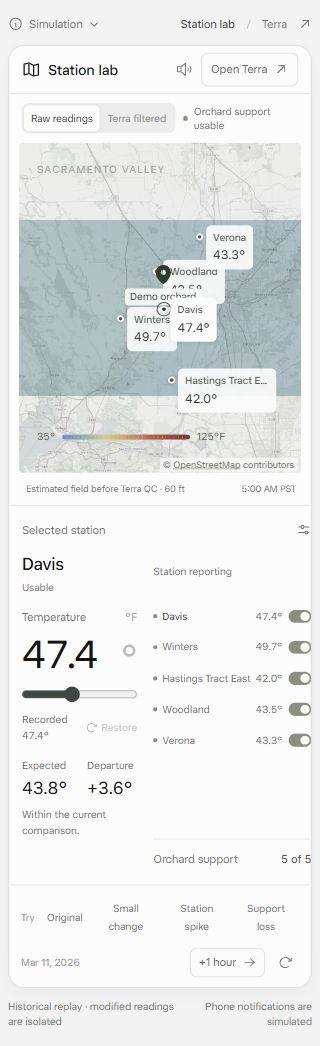
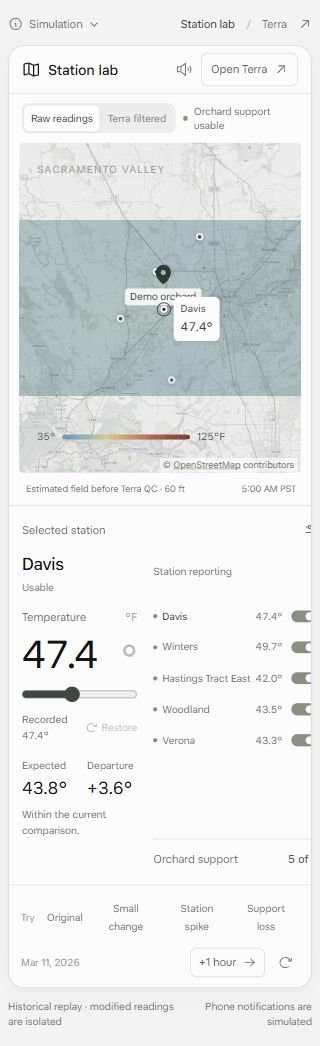
Verify demo against current monitor and refine responsive controls

diff --git a/web/demo/src/App.jsx b/web/demo/src/App.jsx
@@ -98,6 +98,9 @@ function useDemo() {
   }, [accept]);
   const act = useCallback((action, endpoint = '/api/demo/action') => {
     unlockAudio();
+    if (endpoint === '/api/demo/action' && action.type !== 'temperature') {
+      window.dispatchEvent(new Event('terra-demo-command'));
+    }
     const execute = async () => {
       if (alive.current) setBusy(true);
       const id = ++seq.current;
@@ -381,17 +384,30 @@ function StationControl({
   layer
 }) {
   const s = state.stations.find(s => s.id === selected) || state.stations[0],
-    [draft, setDraft] = useState(s.value_f ?? 50),
-    timer = useRef(null);
+    [draft, setDraft] = useState(String(s.value_f ?? 50)),
+    timer = useRef(null),
+    latestStation = useRef(s);
+  latestStation.current = s;
+  const pending = s.online && String(draft).trim() !== '' && Number(draft) !== s.value_f;
   useEffect(() => {
-    setDraft(s.value_f ?? s.original_f ?? 50);
-  }, [s.id, s.value_f, s.original_f]);
-  useEffect(() => () => clearTimeout(timer.current), []);
+    setDraft(String(s.value_f ?? s.original_f ?? 50));
+  }, [s.id, s.value_f, s.original_f, state.run_id]);
+  useEffect(() => {
+    const cancel = () => {
+      clearTimeout(timer.current);
+      setDraft(String(latestStation.current.value_f ?? latestStation.current.original_f ?? 50));
+    };
+    window.addEventListener('terra-demo-command', cancel);
+    return () => {
+      cancel();
+      window.removeEventListener('terra-demo-command', cancel);
+    };
+  }, []);
   function change(v) {
     const n = Number(v);
-    setDraft(n);
+    setDraft(v);
     clearTimeout(timer.current);
-    if (Number.isFinite(n) && n >= -10 && n <= 125) {
+    if (String(v).trim() && Number.isFinite(n) && n >= -10 && n <= 125) {
       const id = s.id;
       timer.current = setTimeout(() => act({
         type: 'temperature',
@@ -400,15 +416,14 @@ function StationControl({
       }), 350);
     }
   }
-  return <aside className="station-controls"><div className="control-heading"><span>Selected station</span><SlidersHorizontal size={15} /></div><div className="selected-station-heading"><h2>{s.name}</h2><StationLabel station={s} /></div><div className="temperature-control"><label htmlFor="temperature-value">Temperature <span>°F</span></label><div className="temperature-value"><input id="temperature-value" aria-label={`${s.name} temperature Fahrenheit`} type="number" min="-10" max="125" step="0.1" value={number(draft)} disabled={!s.online} onChange={e => change(e.target.value)} /><span>°</span></div><input className="temperature-slider" aria-label={`Adjust ${s.name} temperature`} type="range" min="-10" max="125" step="0.1" value={draft} disabled={!s.online} onChange={e => change(e.target.value)} /><div className="slider-context"><span>Recorded {degrees(s.original_f)}</span><button disabled={s.override === null || s.override === undefined || busy} onClick={() => {
+  return <aside className="station-controls"><div className="control-heading"><span>Selected station</span><SlidersHorizontal size={15} /></div><div className="selected-station-heading"><h2>{s.name}</h2>{pending ? <span className="station-state">Checking…</span> : <StationLabel station={s} />}</div><div className="temperature-control"><label htmlFor="temperature-value">Temperature <span>°F</span></label><div className="temperature-value"><input id="temperature-value" aria-label={`${s.name} temperature Fahrenheit`} type="number" min="-10" max="125" step="0.1" value={draft} disabled={!s.online || busy} onBlur={() => { if (!String(draft).trim()) setDraft(String(s.value_f ?? s.original_f)); }} onChange={e => change(e.target.value)} /><span>°</span></div><input className="temperature-slider" aria-label={`Adjust ${s.name} temperature`} type="range" min="-10" max="125" step="0.1" value={draft} disabled={!s.online || busy} onChange={e => change(e.target.value)} /><div className="slider-context"><span>Recorded {degrees(s.original_f)}</span><button disabled={s.override === null || s.override === undefined || busy} onClick={() => {
           clearTimeout(timer.current);
           act({
             type: 'temperature',
             station_id: s.id,
             value_f: s.original_f
           });
-        }}><ArrowClockwise size={12} />Restore</button></div></div><div className="station-comparison"><div><span>Expected</span><strong>{degrees(s.assessment.expected_f)}</strong></div><div><span>Departure</span><strong>{signed(s.assessment.residual_f)}</strong></div></div><div className="reading-state" aria-live="polite">{!s.online ? 'Reading withheld from the simulation.' : flagged(s) ? layer === 'filtered' ? 'Flagged · excluded from temperature field.' : 'Terra flagged this departure.' : !s.assessment.available ? 'Comparison unavailable.' : s.assessment.level === 'moderate' ? `Departure · awaiting ${s.assessment.required_readings} consecutive readings` : 'Within the current comparison.'}</div><div className="station-list-heading">Station reporting</div><div className="station-list">{state.stations.map(row => <div className={`station-row${row.id === selected ? ' active' : ''}`} key={row.id}><button className="station-select" onClick={() => {
-          clearTimeout(timer.current);
+        }}><ArrowClockwise size={12} />Restore</button></div></div><div className="station-comparison"><div><span>Expected</span><strong>{pending ? '—' : degrees(s.assessment.expected_f)}</strong></div><div><span>Departure</span><strong>{pending ? '—' : signed(s.assessment.residual_f)}</strong></div></div><div className="reading-state" aria-live="polite">{!s.online ? 'Reading withheld from the simulation.' : pending ? 'Evaluating this reading…' : flagged(s) ? layer === 'filtered' ? 'Flagged · excluded from temperature field.' : 'Terra flagged this departure.' : !s.assessment.available ? 'Comparison unavailable.' : s.assessment.level === 'moderate' ? `Departure · awaiting ${s.assessment.required_readings} consecutive readings` : 'Within the current comparison.'}</div><div className="station-list-heading">Station reporting</div><div className="station-list">{state.stations.map(row => <div className={`station-row${row.id === selected ? ' active' : ''}`} key={row.id}><button className="station-select" onClick={() => {
           setSelected(row.id);
         }}><span className={`row-dot${!row.online ? ' off' : flagged(row) ? ' warn' : ''}`} /><span>{row.name}</span><span>{row.online ? degrees(row.value_f) : '—'}</span></button><button className="reporting-toggle" aria-label={`${row.online ? 'Take' : 'Bring'} ${row.name} ${row.online ? 'offline' : 'online'}`} aria-pressed={row.online} disabled={busy} onClick={() => {
           clearTimeout(timer.current);
@@ -430,8 +445,9 @@ function StationApp({
     [selected, setSelected] = useState(6),
     [layer, setLayer] = useState('raw'),
     phone = usePhone(state, 'stations'),
-    available = supported(state.assessment);
-  return <><PageNav view="stations" state={state} /><main className="lab-window"><header className="lab-header"><div><MapTrifold size={19} /><h1>Station lab</h1><span className="header-separator" /><span>Sacramento Valley</span></div><div className="lab-header-actions"><button className="icon-button" onClick={phone.toggleSound} aria-label={phone.sound ? 'Mute demo ping' : 'Enable demo ping'} title={phone.sound ? 'Demo ping on' : 'Demo ping muted'}>{phone.sound ? <SpeakerHigh size={16} /> : <SpeakerSlash size={16} />}</button><a className="quiet-button" href="/terra" target="_blank" rel="noreferrer">Open Terra <ArrowUpRight size={14} /></a></div></header><div className="lab-toolbar"><div className="segmented" aria-label="Heatmap layer"><button aria-pressed={layer === 'raw'} onClick={() => setLayer('raw')}>Raw readings</button><button aria-pressed={layer === 'filtered'} onClick={() => setLayer('filtered')}>Terra filtered</button></div><span className="evaluation-state" role="status">{busy ? <><CircleNotch className="spin" size={12} />Evaluating…</> : <><span className={`status-dot${available ? '' : ' limited'}`} />{available ? 'Orchard support usable' : 'Orchard support limited'}</>}</span></div><div className="lab-body"><div className="map-column"><WeatherMap state={state} selected={selected} onSelect={setSelected} layer={layer} /><div className="map-bottom"><span>{layer === 'raw' ? 'Estimated field before Terra QC' : 'Estimated field after Terra QC'}<span className="muted"> · 60 ft</span></span><span>{clock(state.clock.current_utc)} PST</span></div></div><StationControl state={state} selected={selected} setSelected={setSelected} act={act} busy={busy} layer={layer} /></div><footer className="lab-footer"><div className="scenario-controls"><span>Try</span>{[['normal', 'Original'], ['minor', 'Small change'], ['spike', 'Station spike'], ['support_loss', 'Support loss']].map(([name, label]) => <button key={name} disabled={busy} onClick={() => act({
+    available = supported(state.assessment),
+    health = state.monitor.demo_health;
+  return <><PageNav view="stations" state={state} /><main className="lab-window"><header className="lab-header"><div><MapTrifold size={19} /><h1>Station lab</h1><span className="header-separator" /><span>Sacramento Valley</span></div><div className="lab-header-actions"><button className="icon-button" onClick={phone.toggleSound} aria-label={phone.sound ? 'Mute demo ping' : 'Enable demo ping'} title={phone.sound ? 'Demo ping on' : 'Demo ping muted'}>{phone.sound ? <SpeakerHigh size={16} /> : <SpeakerSlash size={16} />}</button><a className="quiet-button" href="/terra" target="_blank" rel="noreferrer">Open Terra <ArrowUpRight size={14} /></a></div></header><div className="lab-toolbar"><div className="segmented" aria-label="Heatmap layer"><button aria-pressed={layer === 'raw'} onClick={() => setLayer('raw')}>Raw readings</button><button aria-pressed={layer === 'filtered'} onClick={() => setLayer('filtered')}>Terra filtered</button></div><span className="evaluation-state" role="status">{busy ? <><CircleNotch className="spin" size={12} />Evaluating…</> : <><span className={`status-dot${available ? '' : ' limited'}`} />{available ? health.incident_active ? `Recovery · ${health.consecutive_good_readings}/3 hours` : 'Orchard support usable' : 'Orchard support limited'}</>}</span></div><div className="lab-body"><div className="map-column"><WeatherMap state={state} selected={selected} onSelect={setSelected} layer={layer} /><div className="map-bottom"><span>{layer === 'raw' ? 'Estimated field before Terra QC' : 'Estimated field after Terra QC'}<span className="muted"> · 60 ft</span></span><span>{clock(state.clock.current_utc)} PST</span></div></div><StationControl state={state} selected={selected} setSelected={setSelected} act={act} busy={busy} layer={layer} /></div><footer className="lab-footer"><div className="scenario-controls"><span>Try</span>{[['normal', 'Original'], ['minor', 'Small change'], ['spike', 'Station spike'], [health.incident_active ? 'recover' : 'support_loss', health.incident_active ? 'Restore +3h' : 'Support loss']].map(([name, label]) => <button key={name} disabled={busy || name === 'recover' && state.controls.remaining_hours < 3} onClick={() => act({
             type: 'preset',
             name
           })}>{label}</button>)}</div><div className="time-controls"><span>{clock(state.clock.current_utc, true)}</span><button className="quiet-button" disabled={busy || state.controls.remaining_hours < 1} onClick={() => act({
@@ -439,10 +455,7 @@ function StationApp({
             hours: 1
           })}>+1 hour <ArrowRight size={13} /></button><button className="icon-button" disabled={busy} title="Reset entire demo" aria-label="Reset entire demo" onClick={() => act({
             type: 'reset'
-          })}><ArrowClockwise size={15} /></button></div></footer>{(!available || state.monitor?.demo_health?.incident_active) && <div className="recovery-strip"><span>{available ? `Recovery · ${state.monitor.demo_health?.consecutive_good_readings || 0} of 3 hourly readings` : 'Terra recorded a support interruption.'}</span><button disabled={busy || state.controls.remaining_hours < 3} onClick={() => act({
-          type: 'preset',
-          name: 'recover'
-        })}>Restore support + 3 hours <ArrowRight size={13} /></button></div>}</main><div className="below-app"><span>Historical replay · modified readings are isolated</span><span>Phone notifications are simulated</span></div>{phone.notice && <Notification notification={phone.notice} onClose={() => phone.setNotice(null)} />}</>;
+          })}><ArrowClockwise size={15} /></button></div></footer></main><div className="below-app"><span>Historical replay · modified readings are isolated</span><span>Phone notifications are simulated</span></div>{phone.notice && <Notification notification={phone.notice} onClose={() => phone.setNotice(null)} />}</>;
 }
 function useNoteDetails(id, runId) {
   const [details, setDetails] = useState(null),
@@ -654,7 +667,7 @@ function TerraApp({
             }}><SidebarSimple size={17} /></button></div></header><div className="thread-scroll" ref={scroll} onScroll={event => {
           const el = event.currentTarget;
           nearBottom.current = el.scrollHeight - el.scrollTop - el.clientHeight < 60;
-        }}><div className="thread-date">{clock(state.clock.current_utc, true)}</div><div className="thread-context">Demo orchard · historical replay</div>{!available && <div className="quiet-availability"><span className="status-dot limited" />Weather support limited</div>}{state.messages.some(m => !m.event_types?.includes('welcome')) ? <div className="grower-notes" role="log" aria-label="Grower alerts" aria-live="polite" aria-relevant="additions text">{state.messages.filter(m => !m.event_types?.includes('welcome')).map(m => <article key={m.id} className="grower-note"><time dateTime={m.created_at}>{clock(m.created_at)} PST</time>{(sent[m.id] || m.llm_input?.question?.text) && <div className="outgoing-bubble">{sent[m.id] || m.llm_input?.question?.text}</div>}<button className={`incoming-bubble${selectedNote === m.id ? ' selected-note' : ''}`} onClick={e => openNote(m, e)} aria-label={`Open grower note: ${m.text}`}>{m.text}</button><button className="note-attachment" onClick={e => openNote(m, e)}><MapTrifold size={20} /><span><strong>{m.event_types?.includes('monitoring_recovered') ? 'Weather support restored' : m.event_types?.includes('monitoring_limited') ? 'Weather support' : 'Field note'}</strong><small>{m.kind === 'answer' ? 'Supporting facts' : 'View station evidence'}</small></span><ArrowUpRight size={13} /></button><span className="note-delivery">{m.kind === 'answer' ? 'Reply in Terra' : m.event_types?.includes('welcome') ? 'Monitoring started' : 'Demo phone · simulated'}</span></article>)}</div> : <div className="quiet-state"><span className="quiet-orbit"><Check size={19} /></span><h2>All quiet.</h2><p>Weather support is usable.</p><a href="/stations" target="_blank" rel="noreferrer">Open station lab <ArrowUpRight size={12} /></a></div>}</div><div className="chat-bottom"><form className="composer" onSubmit={ask}><span className="composer-icon"><Plus size={14} /></span><input aria-label="Ask Terra about this orchard" value={question} onChange={e => setQuestion(e.target.value)} placeholder="Ask about your orchard…" disabled={asking} maxLength={500} /><button type="submit" disabled={!question.trim() || asking} aria-label="Send question">{asking ? <CircleNotch size={15} className="spin" /> : <ArrowUp size={16} />}</button></form><span className="chat-footnote">Simulation · no texts sent</span></div>{phoneOpen && <div className="phone-popover"><div className="popover-title"><strong>Simulated phone</strong><button className="icon-button" onClick={() => setPhoneOpen(false)} aria-label="Close simulated phone"><X size={14} /></button></div>{latest ? <><span className="phone-meta">terra · {clock(latest.created_at)} PST</span><p>{latest.text}</p><button className="text-button" onClick={() => {
+        }}><div className="thread-date">{clock(state.clock.current_utc, true)}</div><div className="thread-context">Demo orchard · historical replay</div>{!available && <div className="quiet-availability"><span className="status-dot limited" />Weather support limited</div>}{state.messages.some(m => !m.event_types?.includes('welcome')) ? <div className="grower-notes" role="log" aria-label="Grower alerts" aria-live="polite" aria-relevant="additions text">{state.messages.filter(m => !m.event_types?.includes('welcome')).map(m => <article key={m.id} className="grower-note"><time dateTime={m.created_at}>{clock(m.created_at)} PST</time>{(sent[m.id] || m.llm_input?.question?.text) && <div className="outgoing-bubble">{sent[m.id] || m.llm_input?.question?.text}</div>}<button className={`incoming-bubble${selectedNote === m.id ? ' selected-note' : ''}`} onClick={e => openNote(m, e)} aria-label={`Open grower note: ${m.text}`}>{m.text}</button><button className="note-attachment" onClick={e => openNote(m, e)}><MapTrifold size={20} /><span><strong>{m.event_types?.includes('monitoring_recovered') ? 'Weather support restored' : m.event_types?.includes('monitoring_limited') ? 'Weather support' : 'Field note'}</strong><small>{m.kind === 'answer' ? 'Supporting facts' : 'View station evidence'}</small></span><ArrowUpRight size={13} /></button><span className="note-delivery">{m.kind === 'answer' ? 'Reply in Terra' : m.event_types?.includes('welcome') ? 'Monitoring started' : 'Demo phone · simulated'}</span></article>)}</div> : <div className="quiet-state"><span className="quiet-orbit"><Check size={19} /></span><h2>All quiet.</h2><p>Weather support is usable.</p><a href="/stations" target="_blank" rel="noreferrer">Open station lab <ArrowUpRight size={12} /></a></div>}</div><div className="chat-bottom"><form className="composer" onSubmit={ask}><span className="composer-icon"><Plus size={14} /></span><input aria-label="Ask Terra about this orchard" value={question} onChange={e => setQuestion(e.target.value)} placeholder="Ask about your orchard…" disabled={asking} maxLength={500} /><button type="submit" disabled={!question.trim() || asking} aria-label="Send question">{asking ? <CircleNotch size={15} className="spin" /> : <ArrowUp size={16} />}</button></form></div>{phoneOpen && <div className="phone-popover"><div className="popover-title"><strong>Simulated phone</strong><button className="icon-button" onClick={() => setPhoneOpen(false)} aria-label="Close simulated phone"><X size={14} /></button></div>{latest ? <><span className="phone-meta">terra · {clock(latest.created_at)} PST</span><p>{latest.text}</p><button className="text-button" onClick={() => {
               setSelectedNote(latest.id);
               setPanel(true);
               setPhoneOpen(false);

diff --git a/web/demo/src/styles.css b/web/demo/src/styles.css
@@ -21,4 +21,5 @@
 .composer input::placeholder{color:#737373}.note-delivery,.chat-footnote{font-size:10px}.source-details summary,.app-links>a,.below-app{color:#737373}.evidence-tabs button{color:#737373}.evidence-tabs button[aria-selected=true]{color:#444}
 @media(max-width:739px){.map-station:not(.selected) .map-station-caption{display:none}.map-station{padding:16px}.map-station.selected .map-station-caption{left:29px;top:7px}.map-station.selected.caption-left .map-station-caption{left:auto;right:29px}.map-station.selected.caption-up .map-station-caption{top:auto;bottom:10px}.reporting-toggle,.reporting-toggle[aria-pressed=true]{width:30px;height:24px;background:transparent}.reporting-toggle:before{content:'';position:absolute;left:3px;right:3px;top:6px;height:12px;border-radius:10px;background:#dedede}.reporting-toggle[aria-pressed=true]:before{background:#86917f}.reporting-toggle>span{left:5px;top:8px;width:8px;height:8px}.reporting-toggle[aria-pressed=true]>span{transform:translateX(12px)}}
 @media(min-width:740px){.control-heading{margin-bottom:8px}.selected-station-heading{min-height:40px}.temperature-control{margin-top:8px}.temperature-value{margin-bottom:5px}.temperature-value input{font-size:34px;line-height:42px}.station-comparison{margin-top:12px}.station-list-heading{margin-top:12px}.station-row{min-height:27px}.control-footnote{display:none}.station-controls{padding-bottom:10px}.support-summary{margin-top:7px;padding-top:8px}}
+@media(max-width:390px){.station-controls{grid-template-columns:minmax(0,1fr);gap:0}.station-controls>*{grid-column:1;grid-row:auto;min-width:0}.station-controls .station-list-heading{margin-top:20px;margin-bottom:6px}.station-controls .station-list{grid-row:auto}.station-controls .station-row{min-height:32px}.station-controls .station-select{font-size:11px}.station-controls .support-summary{grid-row:auto;margin-top:12px}.station-controls .station-comparison{margin-top:14px}.station-controls .selected-station-heading{margin-top:0}}
 @media(prefers-reduced-motion:reduce){*,*:before,*:after{animation-duration:.01ms!important;transition-duration:.01ms!important;scroll-behavior:auto!important}}

diff --git a/tests/test_terra_demo_simulation.py b/tests/test_terra_demo_simulation.py
@@ -71,16 +71,21 @@ class DemoSimulationTests(unittest.TestCase):
         for _ in range(3):
             same_hour = self.demo.action({"type": "preset", "name": "normal"})
         self.assertFalse(any(e["type"] == "monitoring_recovered" for e in same_hour["events"]))
-        self.assertEqual(same_hour["monitor"]["demo_health"]["consecutive_good_readings"], 1)
+        # The current monitor excludes the last unavailable hour even after a
+        # same-hour revision. Only subsequent distinct hours prove recovery.
+        self.assertEqual(same_hour["monitor"]["demo_health"]["consecutive_good_readings"], 0)
         self.assertTrue(same_hour["monitor"]["demo_health"]["incident_active"])
         next_hour = self.demo.action({"type": "advance", "hours": 1})
         self.assertFalse(any(e["type"] == "monitoring_recovered" for e in next_hour["events"]))
-        self.assertEqual(next_hour["monitor"]["demo_health"]["consecutive_good_readings"], 2)
+        self.assertEqual(next_hour["monitor"]["demo_health"]["consecutive_good_readings"], 1)
         self.assertTrue(next_hour["monitor"]["demo_health"]["incident_active"])
+        second_hour = self.demo.action({"type": "advance", "hours": 1})
+        self.assertFalse(any(e["type"] == "monitoring_recovered" for e in second_hour["events"]))
+        self.assertEqual(second_hour["monitor"]["demo_health"]["consecutive_good_readings"], 2)
         third = self.demo.action({"type": "advance", "hours": 1})
         self.assertEqual(sum(e["type"] == "monitoring_recovered" for e in third["events"]), 1)
         self.assertEqual(len(third["notifications"]), 2)
-        self.assertEqual(utc(third["clock"]["current_utc"]), utc(START) + timedelta(hours=2))
+        self.assertEqual(utc(third["clock"]["current_utc"]), utc(START) + timedelta(hours=3))
         self.assertEqual(third["monitor"]["demo_health"], {
             "incident_active": False, "consecutive_good_readings": 3, "required_good_readings": 3})
 

diff --git a/web/demo/design-qa.md b/web/demo/design-qa.md
@@ -1,0 +1,52 @@
+# Terra simulation verification
+
+Date: 2026-10-24. Local monitoring baseline: `e4292b21594d20b3983a62447e2f4632aac0f3bd`.
+
+## Visual truth and normalization
+
+Source: the DOM-rendered light desktop conversation in [Designing Grok Bot](https://x.ai/news/designing-grok-bot). Source capture: `../../docs/terra/demo-simulation/evidence/grok-source-desktop.png` (1280×720 pixels). The embedded source window is 1024×768 CSS pixels, displayed at 0.5 scale; its 512×384 screenshot crop was enlarged 2× for native-scale comparison. Source screenshot blur from that enlargement is not a font mismatch.
+
[1 lines of base64/hex data omitted]
+
+Full-view comparison: `../../docs/terra/demo-simulation/evidence/source-implementation-comparison-final.png`. Focused native-scale chat comparison: `../../docs/terra/demo-simulation/evidence/source-chat-focus-comparison-final.png`. Both contain the source and rendered implementation in the same comparison input.
+
+Accepted adaptations: omit the unrelated bot roster; retain a roughly 423px conversation and 320px evidence pane in the compact Terra window. Grower notes, the temperature/support evidence, questions and the separate station simulator replace source-specific content. Source paper/bubble/ink tokens and typography are retained. Selected-note feedback and readable muted labels are deliberate interaction/accessibility adaptations; native Grok timing and uninspected mobile behavior are not claimed.
+
+## Findings and comparison history
+
+No remaining P0/P1/P2 visual findings. An independent reviewer inspected the combined source comparisons and the actual station/chat captures.
+
+1. Initial P2: a filtered map retained the raw hot reading without making exclusion explicit. Fixed with **Excluded from field** on the pin and the selected-reading status. Evidence: `station-spike-filtered-final.png` and its raw counterpart.
+2. Initial P2: essential labels were too pale for presentation. Fixed with `#737373` for meaningful secondary labels, controls, timestamps and state explanations; retained source ink/bubble surfaces. The final combined comparison and filtered screenshot verify the change.
+3. Responsive P2: the 320px station controls clipped reporting toggles and the support count. Fixed by stacking controls below 390px. Evidence: `station-mobile-320-final.png`; browser bounds confirmed all five 30×24px toggles inside the panel and document width exactly 320px. Only the selected map caption remains visible at small widths, preventing label collisions.
+4. Functional polish: initial transcript scroll is instant; subsequent updates preserve a reader's position away from the bottom. Mobile evidence uses a focus-contained dialog; Escape closes it and returns focus to its actual opener. Pending temperature edits show Checking instead of an old classification, and reset/context commands cancel unsubmitted input.
+
+## Required fidelity surfaces
+
+- **Fonts/typography:** exact bundled source font, loaded in-browser; source 14/20 prose and weights retained. Numerical evidence remains a deliberate Terra adaptation.
+- **Spacing/layout:** source bubble insets/corners, 44px bars and compact pane proportions verified in the combined full/focused captures. Desktop controls fit the app; narrow layouts scroll without clipping essential controls.
+- **Colors/tokens:** `#fcfcfc` paper, `#eeeeee` incoming bubbles and `#141414` ink. Readable neutral secondary labels; heat color encodes temperature, while an explicit label/icon encodes the actual QC finding.
+- **Image/assets/icons:** the supplied font and real Phosphor library are used. The basemap is attributed OpenStreetMap imagery. Heatmaps and charts are data visualizations computed from real observations/native estimates, not illustrative substitutes. No fabricated avatars, imagery or CSS/SVG replacements for source assets.
+- **Copy/content:** concise actual persisted grower text; initial welcome hidden from the demo feed to keep the normal state quiet. Source/provenance details remain disclosed. Simulated phone labels never claim provider acceptance or real SMS receipt.
+
+## Functional verification
+
+- Real March 2026 CIMIS observations are byte-preserved and outside both reference training and calibration. Input/reference SHA-256 checks pass after interaction.
+- Fourteen meaningful backend tests pass against actual frozen QC, Nathan's estimator, Monitor/Store and deterministic writer. They cover baseline/minor no-alert behavior, genuine injected station finding, usable independent orchard support, support-loss events, deduplication, three subsequent usable-hour recovery, immutable note-time station/history snapshots, restart/reset, API guards, native heatmap parity and no live/provider/SMS/LLM side effects.
+- All seven configured check groups pass with `python terra.py check --base e4292b21594d20b3983a62447e2f4632aac0f3bd --task terra-demo-simulation`. Broad historical task-overlap warnings do not represent a source conflict: changes remain in the additive simulation paths. Existing scientific modules/reference/configuration match that baseline.
+- Production build and all four Sites packaging checks pass. Frozen-lockfile installation succeeds in the app's own pnpm workspace. Local UI/API are served together; publication is outside this local simulation.
+- Browser exercised manual slider entry, precise numeric input, raw/filtered layers, no orchard false alert for one bad station, reporting/support loss, matching phone note, factual explanation, retained old evidence, reset, recovery, mobile tabs, Escape/focus return and the evidence download. The downloaded JSON matched its original note-time assessment and immutable data source.
+- Fresh final browser-session console checks contain no errors or warnings. Source and implementation screenshots were opened and compared directly; build/HTTP health alone were not treated as visual verification.
+
+Remaining limits: optional OpenStreetMap tiles need network access; the numerical simulation does not. The 8×8 heatmap is a display grid at a fixed 60-foot demonstration elevation. Weather changes and phone pings are simulated; no natural sensor-fault accuracy claim or real SMS delivery claim is made. The existing bundle-size advisory is non-blocking for this local demo.
+
+## Implementation checklist
+
+- [x] Separate synchronized station and grower-chat views
+- [x] Source-grounded visual primitives and combined comparison
+- [x] Real held-out data and unchanged scientific runtime
+- [x] Actual proactive orchard event, retained evidence and simulated phone note
+- [x] Responsive/keyboard paths and core controls
+- [x] Backend, build, packaging and browser verification
+
+final result: passed

diff --git a/docs/terra/demo-simulation.md b/docs/terra/demo-simulation.md
@@ -12,7 +12,7 @@ Both use the same isolated server on loopback port 8520. No changes enter the or
 Use an environment containing `requirements-terra-dev.txt` and the existing Node/pnpm setup:
 
 ```powershell
-pnpm --dir web/demo install --ignore-workspace
+pnpm --dir web/demo install --frozen-lockfile
 pnpm --dir web/demo build
 $env:PYTHONPATH = 'backend'
 python -m terra_monitoring.demo_simulation --host 127.0.0.1 --port 8520 --state-dir .terra-local/demo-session
@@ -26,7 +26,7 @@ The two browser URLs use the same origin and session. The application persists t
 2. **Temperature slider / Station spike:** actual frozen station QC detects the injected departure. The raw heatmap changes; the filtered map uses Nathan's estimator with Terra's exclusions. Adequate peers can preserve a usable orchard estimate, correctly producing no orchard alert.
 3. **Reporting toggles / Support loss:** insufficient usable inputs make the actual orchard Monitor record `monitoring_limited`. The same persisted note ID and original text appear in the grower chat and local simulated phone toast. Repeating an unchanged incident does not create another notification.
 4. **Select the note:** retained support, station values and chart come from first publication. Later changes do not rewrite them. Ask “Why did I get this alert?” for the Monitor's factual explanation; answers do not create proactive phone notifications.
-5. **Restore:** Original restores readings in the current hour. The recovery strip counts actual distinct usable hourly estimates. Advance twice after the first restored reading, or use **Restore support + 3 hours**. The backend records one recovery note only after its actual rule is satisfied.
+5. **Restore:** Original restores readings in the current hour. The last unavailable hour remains the incident boundary; revising it does not count toward recovery. Advance through three subsequent usable hourly estimates, or use **Restore +3h**. The backend records one recovery note only after its actual rule is satisfied.
 
 Temperature overrides apply to one hourly frame. Reporting interruptions persist until restored. Time advances only through the controls, using actual next observations; the active slice has a finite endpoint. The clock is fixed PST, matching the detector's convention. A changed hour remains historical replay, never current weather.
 

diff --git a/COORDINATION.md b/COORDINATION.md
@@ -19,7 +19,7 @@
   "status": "active",
   "intent": "Build a separate local two-view simulation: real held-out weather with manual station controls and Nathan-estimator heatmap; exact source-grounded Grok Bot style grower chat showing actual frozen QC and orchard-support events, evidence and simulated phone ping. No live-system changes, external messages, refit or provider calls.",
   "branch": "codex/terra-demo-simulation",
-  "base": "78e835dbe43f5ce972b7d321a96190a8bc79e7e5",
+  "base": "e4292b21594d20b3983a62447e2f4632aac0f3bd",
   "domains": ["terra-coordination", "terra-qc-json"],
   "paths": ["COORDINATION.md", "backend/terra_monitoring/demo_simulation/**", "web/demo/**", "tests/test_terra_demo_simulation.py", "docs/terra/demo-simulation.md", "docs/terra/demo-simulation/**"],
   "depends_on": [],
